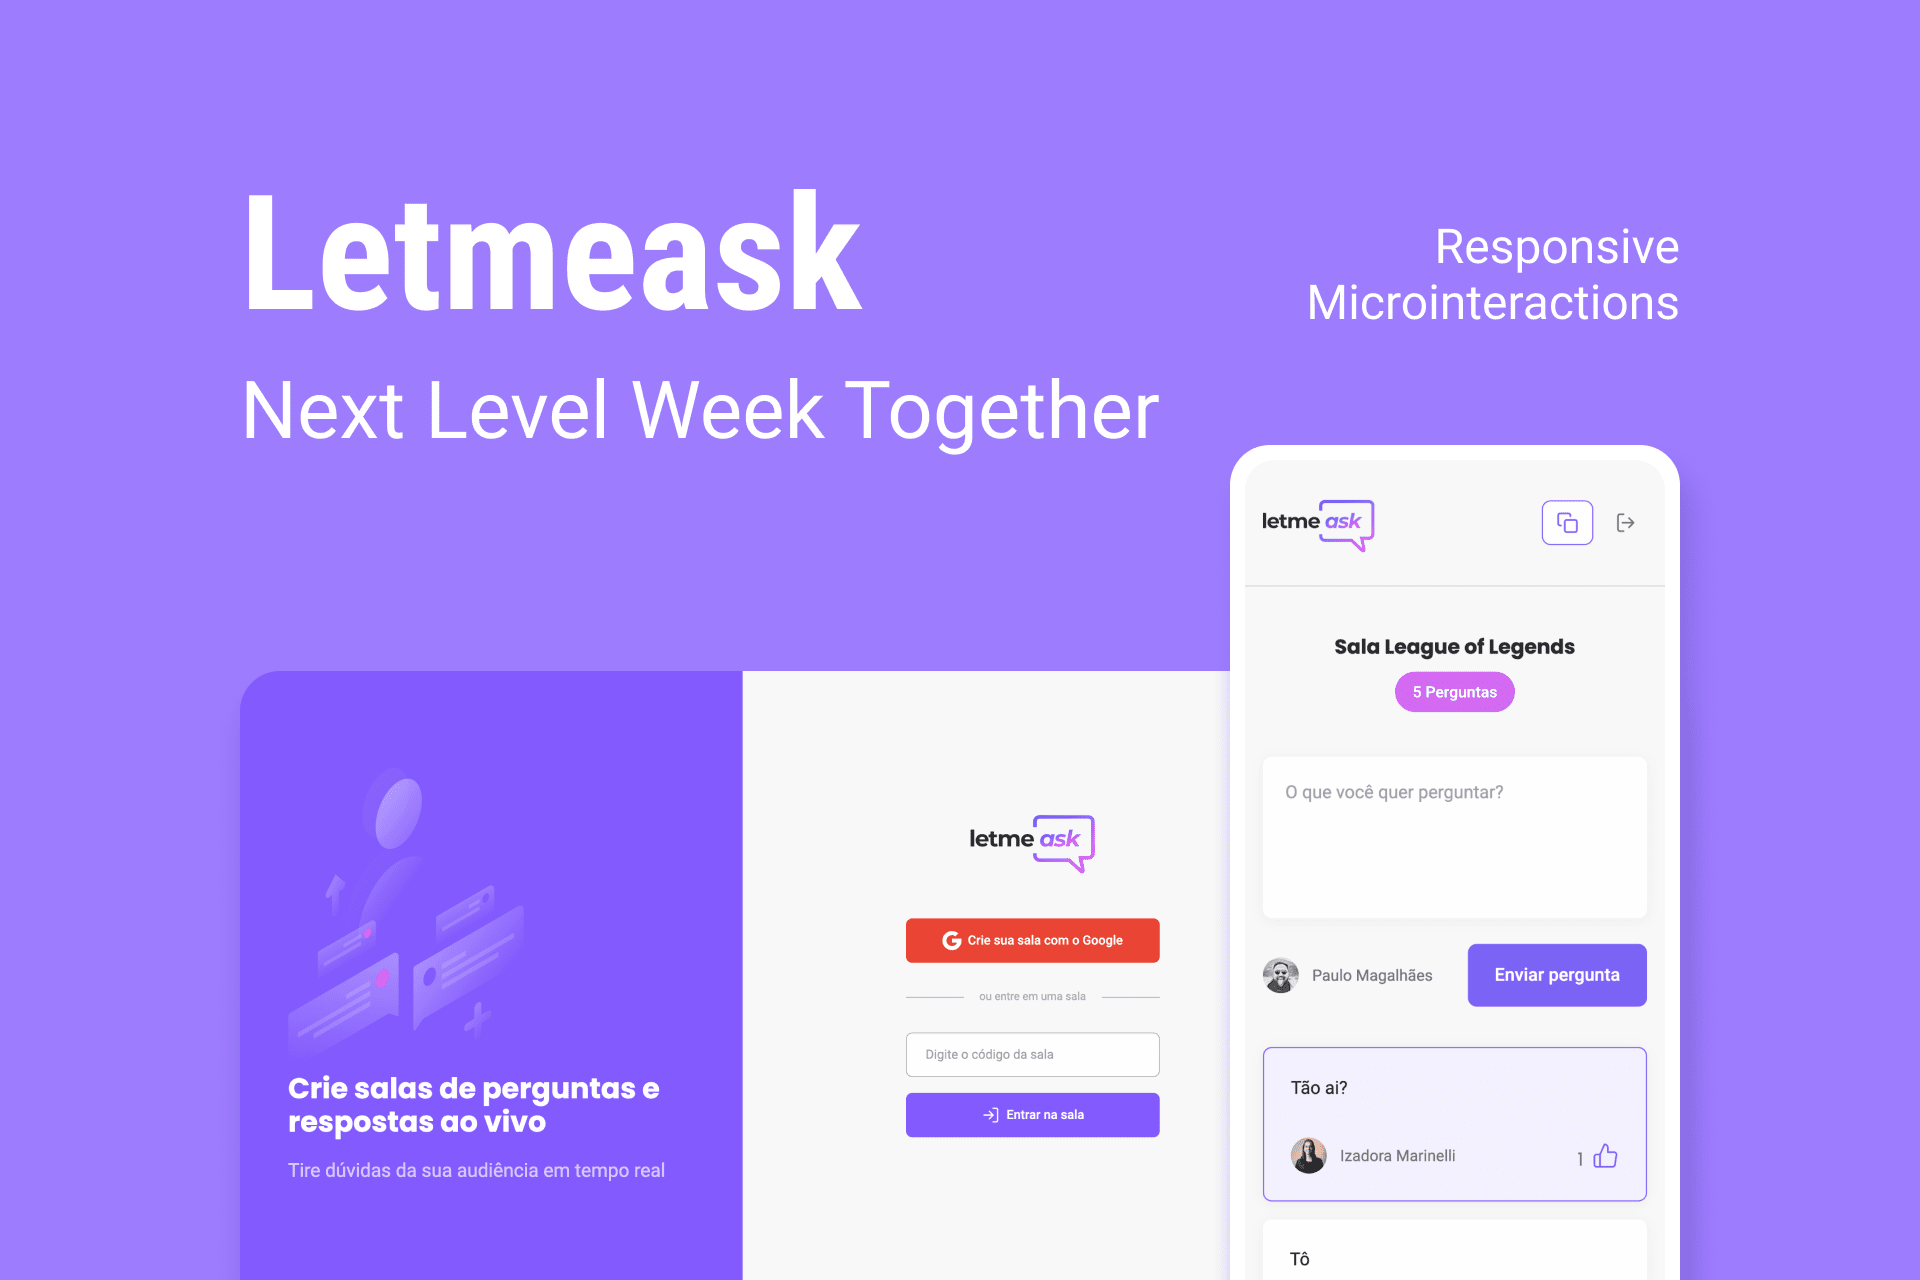
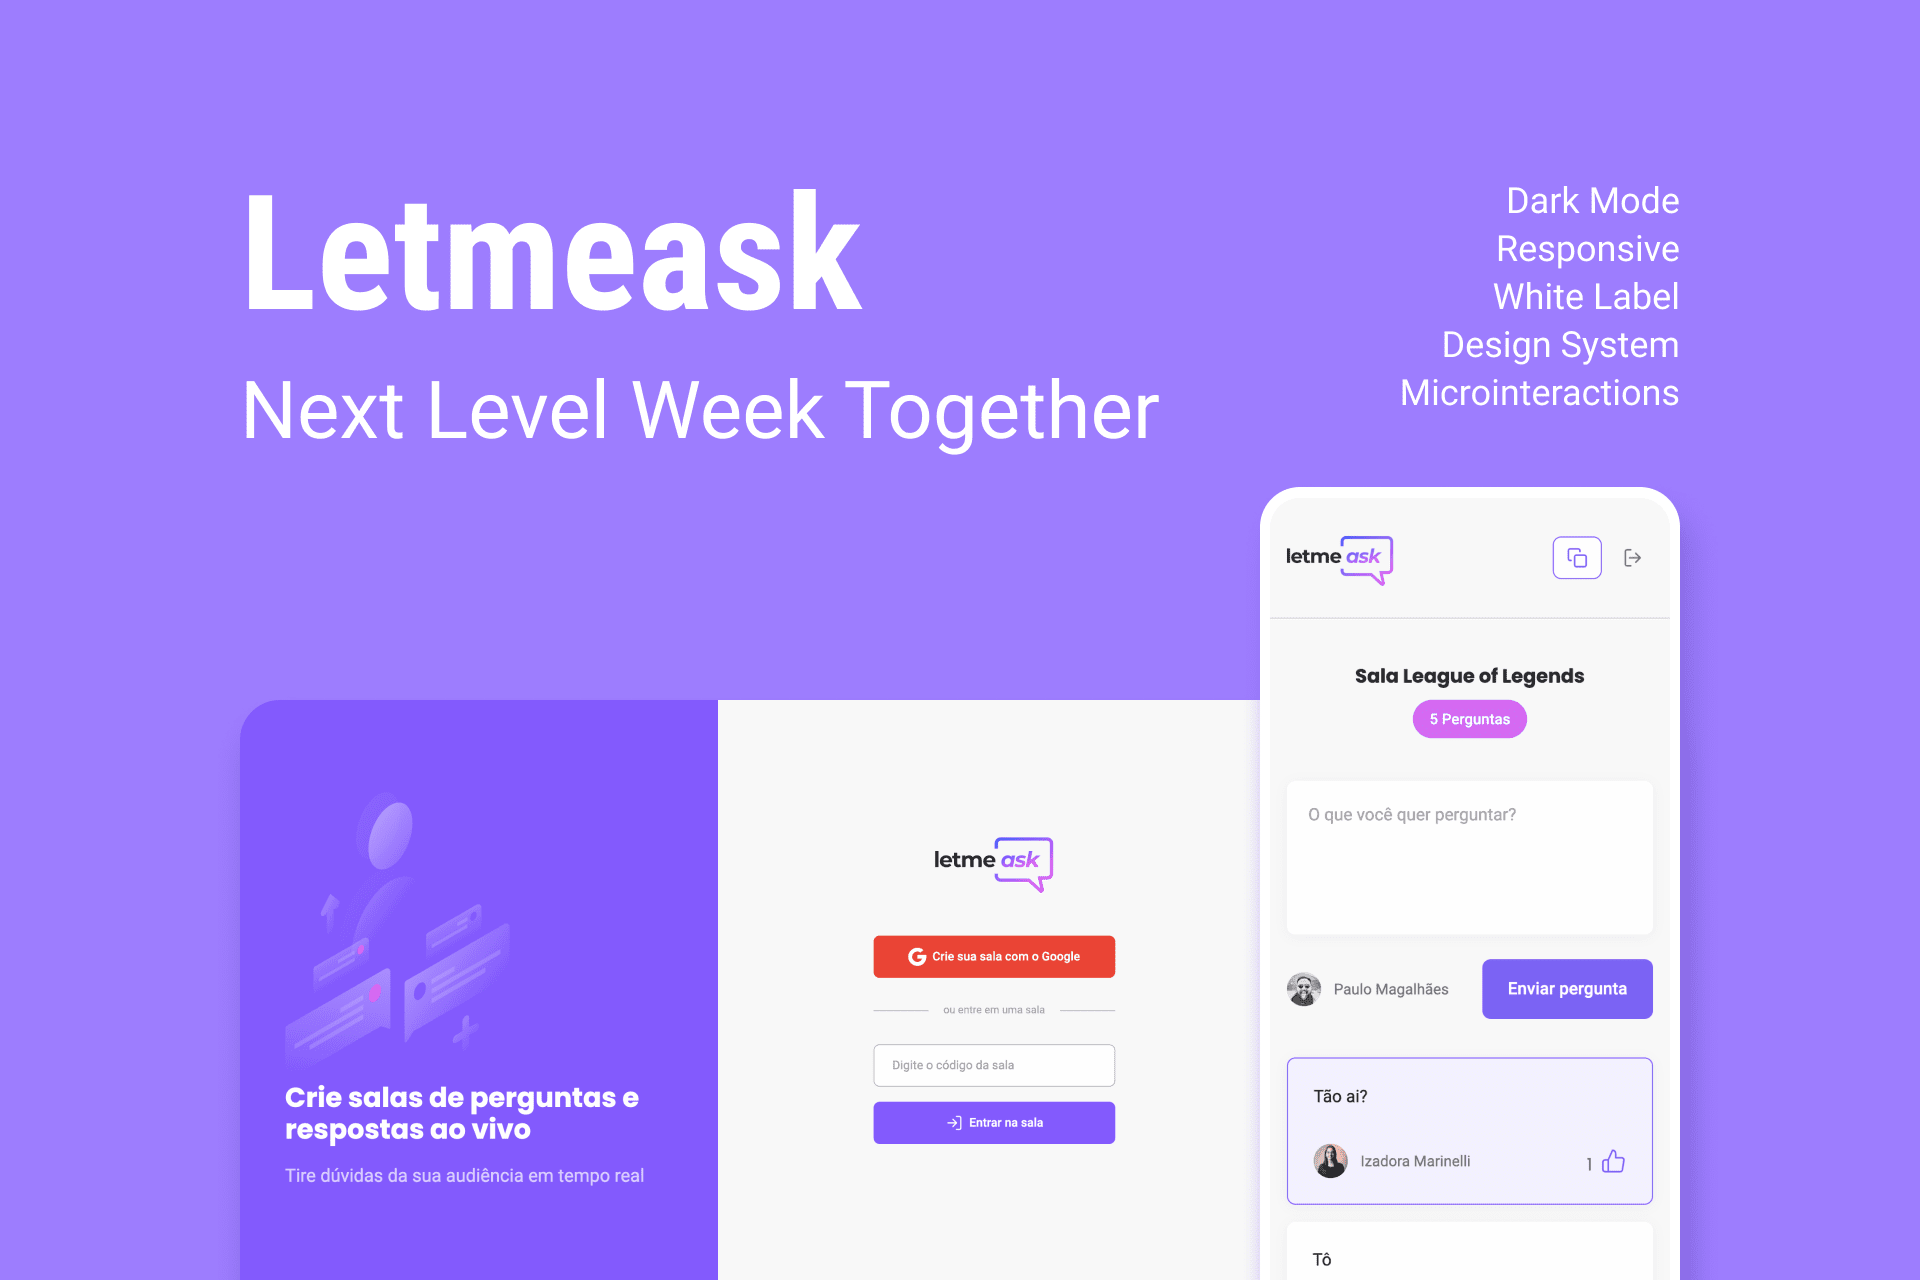
update README

diff --git a/README.md b/README.md
@@ -60,13 +60,19 @@ O app estará disponível no seu browser pelo endereço http://localhost:3000.
 
 Este é um projeto desenvolvido durante a **[Next Level Week Together](https://nextlevelweek.com/)**, apresentada dos dias 20 a 27 de Junho de 2021.
 
-_Letmeask é perfeito para criadores de conteúdos poderem criar salas de Q&A com o seu público, de uma forma muito organizada e democrática._
+Além do desenvolvimento proposto, foi adicionardo funcionalidades extras:
+
+- `Modo escuro`
+- `Responsividade`
+- `Micro Interações`
+- `Design System`
+- `White Label`
+
+_Let Me Ask é perfeito para criadores de conteúdos poderem criar salas de Q&A com o seu público, de uma forma muito organizada e democrática._
 
 <br><br>
 
-# 🔖 Layout
-
-Você pode visualizar o layout do projeto através do link abaixo:
+# 🎨 Layout
 
 - [Layout Web](https://www.figma.com/community/file/1009824839797878169/Letmeask)
 
